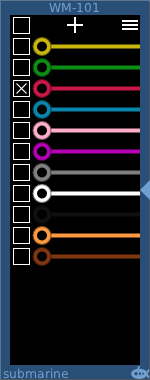
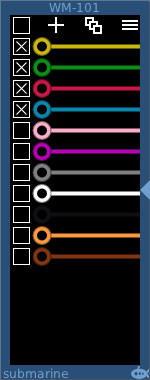
WM-101 Color collections completed

diff --git a/src/WM1.cpp b/src/WM1.cpp
@@ -776,6 +776,7 @@ struct WM101 : SizeableModuleWidget {
 		backPanel->visible = (box.size.x > 16.0f);
 		masterWireManager = this;
 		scrollWidget->container->clearChildren();
+		collectionScrollWidget->container->clearChildren();
 		loadSettings();
 	}
 	void step() override {

diff --git a/manual/WM.md b/manual/WM.md
@@ -20,8 +20,10 @@ Or perhaps you just want all of the wires to be pink to celebrate Valentine's Da
 
 The top-most checkbox in the list allows you to select / deselect all the colors.
 
-At the top of the list in the centre is a plus icon. This will take you to the editing page to create a new wire color which will
+At the top of the list to the left of centre is a plus icon. This will take you to the editing page to create a new wire color which will
 be placed an the bottom of the list when you save it.
+
+To the right of center at the top is the collections icon. This takes you to the collections page where you can rename, delete or use collections. A collection is a quick way of switching between color sets. To create a collection, choose some colors on the colors page, and then choose to 'Save Collection' using the main menu.
 
 To the right at the top is a menu icon. This menu gives direct access to some quick settings, or to the full settings page using the Settings option.
 

diff --git a/changelog.md b/changelog.md
@@ -1,6 +1,7 @@
 # Changelog
 
 ## v1.0.4
+- 03-Sep-2019 WM-101 Add color collections
 - 25-Aug-2019 WM-101 Add ability to color a single wire
 - 17-Aug-2019 WM-101 Allow redo cable changes to maintain original color
 - 10-Aug-2019 WM-101 Bug fix inactive WM-101 not shifting other modules when minimized
